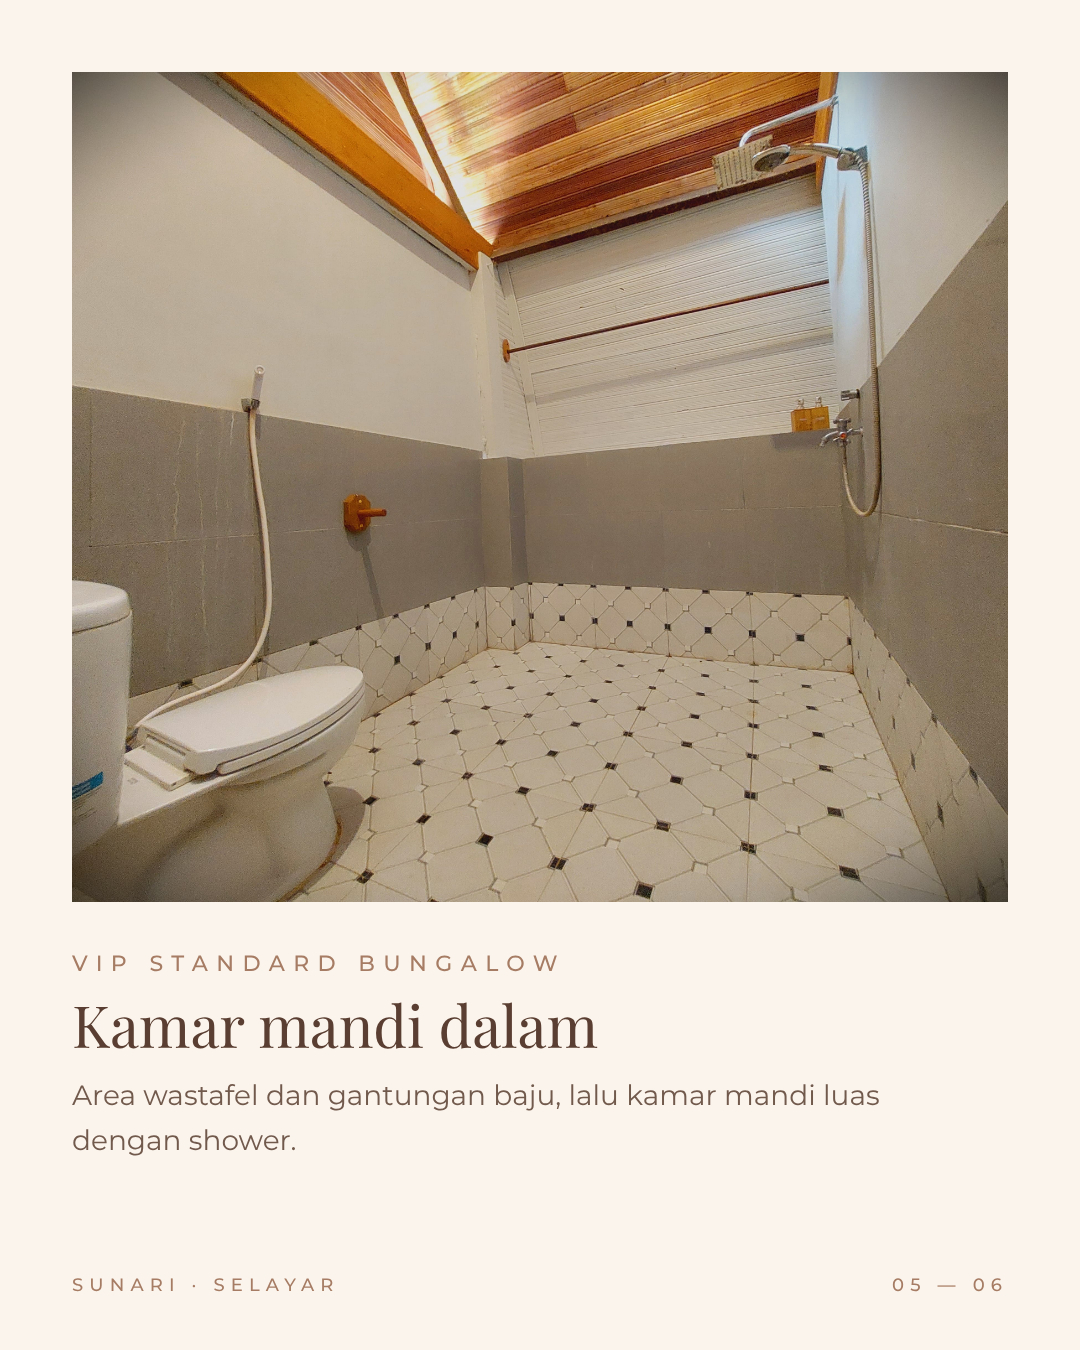
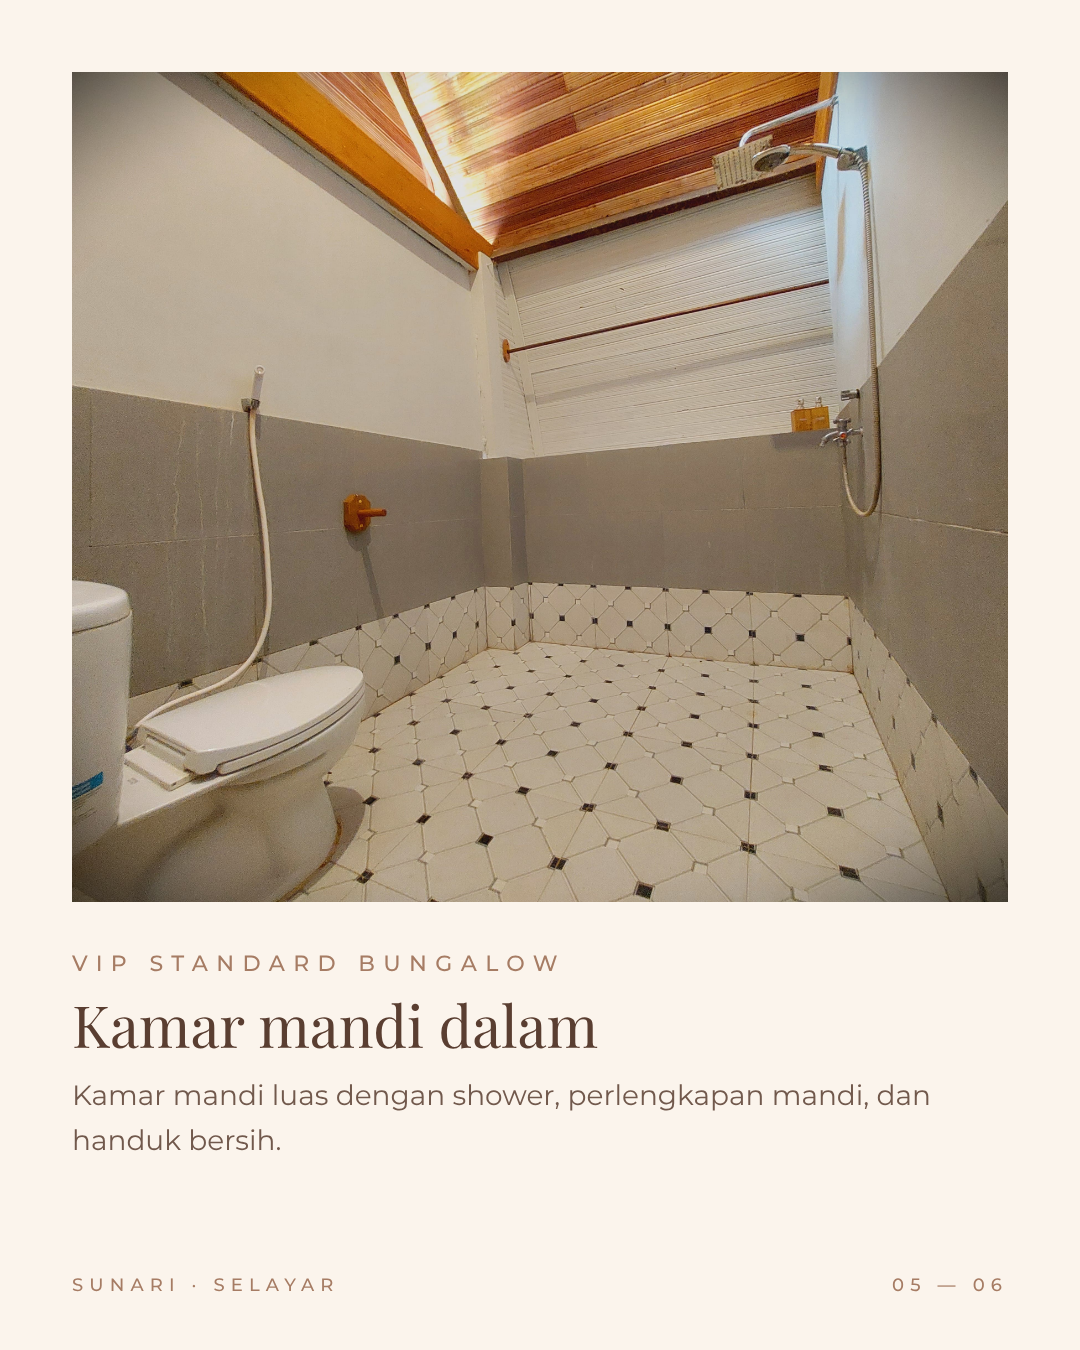
Update VIP Standard Bungalow details (king bed, larger room, breakfast, amenities)
Claude-Session: https://claude.ai/code/session_01AizaiBQtsTmWERPRfEgVV4

Changed region(s): [[0.0611, 0.8089, 0.8556, 0.8711]]

diff --git a/social/kit.html b/social/kit.html
@@ -287,18 +287,18 @@ body{background:#ddd6cc;font-family:Montserrat,sans-serif;padding:40px;display:f
 </div>
 <div class="tpl" id="vp-4">
   <img class="ph" src="../assets/photos/vip-standard-bungalow/07-kamar-samping.jpg" style="object-position:50% 50%" alt="">
-  <div class="txt"><div class="caps">VIP Standard Bungalow</div><h2>Kamar yang hangat</h2><p>Kayu dari lantai sampai atap, lampu dinding temaram, dan kasur besar yang empuk.</p></div>
+  <div class="txt"><div class="caps">VIP Standard Bungalow</div><h2>King bed, kamar lebih luas</h2><p>Kayu dari lantai sampai atap, lampu dinding temaram, dan tirai blackout.</p></div>
   <div class="foot"><span class="caps">SunaRi · Selayar</span><span class="caps">04 — 06</span></div>
 </div>
 <div class="tpl" id="vp-5">
   <img class="ph" src="../assets/photos/vip-standard-bungalow/10-kamar-mandi-shower.jpg" style="object-position:50% 40%" alt="">
-  <div class="txt"><div class="caps">VIP Standard Bungalow</div><h2>Kamar mandi dalam</h2><p>Area wastafel dan gantungan baju, lalu kamar mandi luas dengan shower.</p></div>
+  <div class="txt"><div class="caps">VIP Standard Bungalow</div><h2>Kamar mandi dalam</h2><p>Kamar mandi luas dengan shower, perlengkapan mandi, dan handuk bersih.</p></div>
   <div class="foot"><span class="caps">SunaRi · Selayar</span><span class="caps">05 — 06</span></div>
 </div>
 <div class="tpl facts" id="vp-6">
   <img class="mark" src="../assets/mark-sunari-driftwood.svg" alt="">
   <div class="head center"><div class="caps">VIP Standard Bungalow</div><h2>Yang kamu <span class="it">dapatkan</span></h2></div>
-  <ul><li>Untuk 2 orang, maks. 3 dengan extra bed</li><li>Rumah panggung tepat di bibir pantai</li><li>Teras pribadi menghadap laut &amp; senja</li><li>AC, Wi-Fi, tempat tidur double</li><li>Kopi/teh, air mineral, kamar mandi dalam</li></ul>
+  <ul><li>Untuk 2 orang, maks. 3 dengan extra bed</li><li>Termasuk sarapan</li><li>King bed, lebih luas dari Standard</li><li>Rumah panggung di tepi pantai</li><li>AC, Wi-Fi, kopi/teh &amp; pemanas air</li><li>Perlengkapan mandi &amp; handuk</li></ul>
   <div class="cta"><div class="caps">Info &amp; Reservasi</div><div class="wa"><span>WhatsApp</span> 0821-8903-3044</div></div>
   <div class="foot"><span class="caps">SunaRi · Selayar</span><span class="caps">06 — 06</span></div>
 </div>

diff --git a/social/build_kit.py b/social/build_kit.py
@@ -41,9 +41,9 @@ ROOMS = [
        tagline="Turun tangga, langsung pasir", cover="02-teras-view-pantai.jpg", cover_pos="50% 60%",
        slides=[("01-eksterior-rumah-panggung.jpg","50% 45%","Rumah panggung beratap rumbia","Berdiri di tepi pantai, dinaungi pohon kelapa, dengan atap lengkung tradisional."),
                ("04-teras-view-laut.jpg","60% 50%","Teras pribadi menghadap senja","Perahu nelayan lewat di kejauhan, dan matahari terbenam tepat di depan mata."),
-               ("07-kamar-samping.jpg","50% 50%","Kamar yang hangat","Kayu dari lantai sampai atap, lampu dinding temaram, dan kasur besar yang empuk."),
-               ("10-kamar-mandi-shower.jpg","50% 40%","Kamar mandi dalam","Area wastafel dan gantungan baju, lalu kamar mandi luas dengan shower.")],
-       facts=["Untuk 2 orang, maks. 3 dengan extra bed","Rumah panggung tepat di bibir pantai","Teras pribadi menghadap laut & senja","AC, Wi-Fi, tempat tidur double","Kopi/teh, air mineral, kamar mandi dalam"]),
+               ("07-kamar-samping.jpg","50% 50%","King bed, kamar lebih luas","Kayu dari lantai sampai atap, lampu dinding temaram, dan tirai blackout."),
+               ("10-kamar-mandi-shower.jpg","50% 40%","Kamar mandi dalam","Kamar mandi luas dengan shower, perlengkapan mandi, dan handuk bersih.")],
+       facts=["Untuk 2 orang, maks. 3 dengan extra bed","Termasuk sarapan","King bed, lebih luas dari Standard","Rumah panggung di tepi pantai","AC, Wi-Fi, kopi/teh & pemanas air","Perlengkapan mandi & handuk"]),
 ]
 # Campaign tiles: full-bleed photo + stacked serif phrase (lines), position of text: "top" or "bottom"
 CAMPAIGN = [

diff --git a/ota/DESKRIPSI_OTA_GOOGLE.md b/ota/DESKRIPSI_OTA_GOOGLE.md
@@ -59,13 +59,13 @@ Paid transfers are available from H. Aroeppala Airport and the ferry port. The r
 > Format setiap kamar: **nama**, kapasitas, deskripsi Indonesia, deskripsi Inggris, dan daftar fasilitas untuk dicentang di OTA.
 
 ### 1. VIP Standard Bungalow
-**Kapasitas:** 2 dewasa (maks. 3 dengan 1 extra bed) · **Tempat tidur:** 1 double · **Pemandangan:** laut & matahari terbenam · **Lokasi:** tepi pantai
+**Kapasitas:** 2 dewasa (maks. 3 dengan 1 extra bed, berbayar) · **Tempat tidur:** 1 king bed · **Pemandangan:** laut atau taman (sesuai unit) · **Lebih luas dari Standard** · **Termasuk sarapan**
 
-**ID:** Rumah panggung beratap rumbia yang berdiri tepat di bibir Pantai Sunari. Dari teras pribadinya yang menghadap laut, Anda bisa melihat perahu nelayan lewat dan menyaksikan matahari terbenam tepat di depan mata. Kamar bernuansa kayu dengan lampu dinding temaram, tempat tidur double, AC, perlengkapan kopi/teh, dan air mineral. Dilengkapi area wastafel dengan gantungan baju serta kamar mandi dalam dengan shower dan toilet duduk. Turun tangga, langsung pasir.
+**ID:** Rumah panggung beratap rumbia di tepi Pantai Sunari, dengan kamar yang lebih luas dibanding Standard Bungalow. Dari teras pribadi dengan kursi santai, nikmati pemandangan laut atau taman, dan di unit tepi pantai, matahari terbenam tepat di depan mata. Kamar bernuansa kayu dengan lampu dinding temaram, king bed, tirai blackout, serta bantal dan selimut tambahan. Dilengkapi AC, Wi-Fi, set kopi/teh dengan pemanas air, meja kerja/rias, serta area wastafel dengan gantungan baju. Kamar mandi dalam dengan shower, toilet duduk, perlengkapan mandi lengkap, dan handuk bersih untuk setiap tamu. Sudah termasuk sarapan. Layanan setrika tersedia atas permintaan.
 
-**EN:** A thatched-roof stilt house standing right on the shoreline of Sunari Beach. From the private sea-facing terrace, watch fishing boats pass by and the sun set directly in front of you. The wooden room features soft wall lights, a double bed, air conditioning, coffee/tea facilities and drinking water, plus a vanity area with clothes rack and an en-suite bathroom with shower and western toilet. Step down the stairs and you are on the sand.
+**EN:** A thatched-roof stilt house by Sunari Beach, with more space than the Standard Bungalow. From the private terrace with lounge chairs, enjoy sea or garden views, and in the beachfront units, the sunset right in front of you. The wooden room features soft wall lights, a king bed, blackout curtains, and extra pillows and blankets. Also includes air conditioning, Wi-Fi, coffee/tea set with kettle, work/vanity desk and a washbasin area with clothes rack. En-suite bathroom with shower, western toilet, full toiletries and fresh towels for every guest. Breakfast is included. Ironing available on request.
 
-**Fasilitas:** AC · Wi-Fi · Teras pribadi menghadap laut · Pemandangan matahari terbenam · Akses langsung ke pantai · Kopi/teh · Air mineral · Kamar mandi dalam · Shower · Toilet duduk · Extra bed
+**Fasilitas:** Sarapan · King bed · AC · Wi-Fi · Kopi/teh & pemanas air (kettle) · Meja kerja/rias · Tirai blackout · Bantal & selimut tambahan · Setrika (atas permintaan) · Kamar mandi dalam · Shower · Toilet duduk · Perlengkapan mandi · Handuk · Teras/balkon pribadi · Kursi santai · Pemandangan laut atau taman · Extra bed (maks. 1, berbayar)
 
 ---
 
@@ -162,7 +162,8 @@ Tombol: **Hubungi** (nomor WA).
 ## F. Yang perlu dicek sebelum dipublikasikan
 - [ ] Ukuran tempat tidur Superior & VIP Superior (double/queen/king)
 - [ ] Luas kamar (m²) untuk setiap tipe, sering diminta OTA
-- [ ] Apakah **sarapan, perlengkapan mandi, handuk, setrika, tirai blackout** juga berlaku untuk VIP Standard, Superior, dan VIP Superior? (sudah dikonfirmasi: Family Superior & Standard)
+- [ ] Apakah **sarapan, perlengkapan mandi, handuk, setrika, tirai blackout** juga berlaku untuk Superior dan VIP Superior? (sudah dikonfirmasi: Family Superior, Standard, VIP Standard)
+- [ ] VIP Standard: berapa unit yang menghadap laut/senja dan berapa yang menghadap taman?
 - [ ] Air panas, parkir, jam resepsionis
 - [ ] Kebijakan pembatalan dan deposit
 - [ ] Jarak ke Bandara H. Aroeppala & ke kota Benteng (km / menit)

diff --git a/brand/BRAND_GUIDE.md b/brand/BRAND_GUIDE.md
@@ -207,8 +207,10 @@ Acuan gaya: `brand/style-reference.jpg` (hanya gaya visual, bukan isi/merek). Pe
   setrika atas permintaan, perlengkapan mandi lengkap, handuk untuk setiap tamu, bantal & selimut tambahan, tirai blackout.
   Teras/balkon pribadi dengan kursi santai, pemandangan laut atau taman. Kata kunci promosi: *satu rumah, dua lantai, semua bersama*.
 - **VIP Standard Bungalow** *(foto asli: `assets/photos/vip-standard-bungalow/`)*: rumah panggung beratap rumbia
-  tepat di bibir pantai, teras pribadi menghadap laut dengan meja & kursi, AC, tempat tidur double, lampu dinding,
-  perlengkapan kopi/teh, area wastafel & gantungan baju, kamar mandi dalam dengan shower & toilet duduk.
+  di tepi pantai, **lebih luas dari Standard**. **Kapasitas 2 orang, maks. 3 dengan 1 extra bed (berbayar).** **King bed**, termasuk **sarapan**,
+  AC, Wi-Fi, set kopi/teh + pemanas air, meja kerja/rias, setrika atas permintaan, perlengkapan mandi, handuk, bantal & selimut tambahan,
+  tirai blackout, lampu dinding, area wastafel & gantungan baju, kamar mandi dalam dengan shower & toilet duduk.
+  Teras pribadi dengan kursi santai, pilihan pemandangan laut atau taman.
   Kata kunci promosi: *turun tangga, langsung pasir*. Unit terdekat dengan laut; terasnya menghadap langsung ke arah matahari terbenam, jadi paling cocok untuk konten senja.
 
 **Pengalaman**

diff --git a/social/INSTAGRAM_BULAN_1.md b/social/INSTAGRAM_BULAN_1.md
@@ -332,7 +332,7 @@ Info & reservasi: WA 0821-8903-3044.
 Turun tangga, langsung pasir. 🌊
 
 VIP Standard Bungalow adalah rumah panggung beratap rumbia
-yang berdiri tepat di bibir Pantai Sunari.
+di tepi Pantai Sunari, dengan king bed dan sudah termasuk sarapan.
 Dari teras pribadinya, kamu bisa melihat perahu nelayan lewat
 dan menyaksikan matahari terbenam tepat di depan teras. 🌅
 
